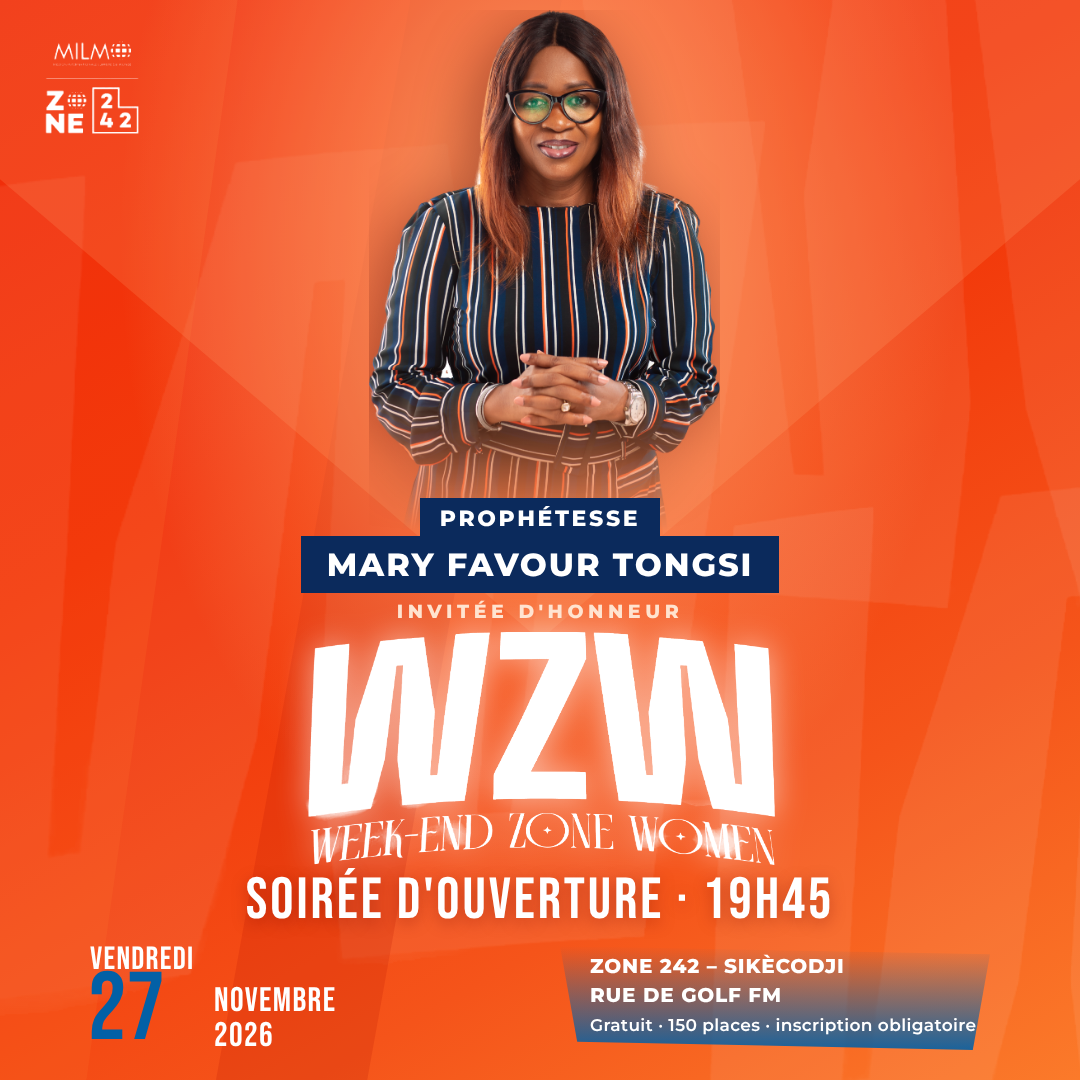
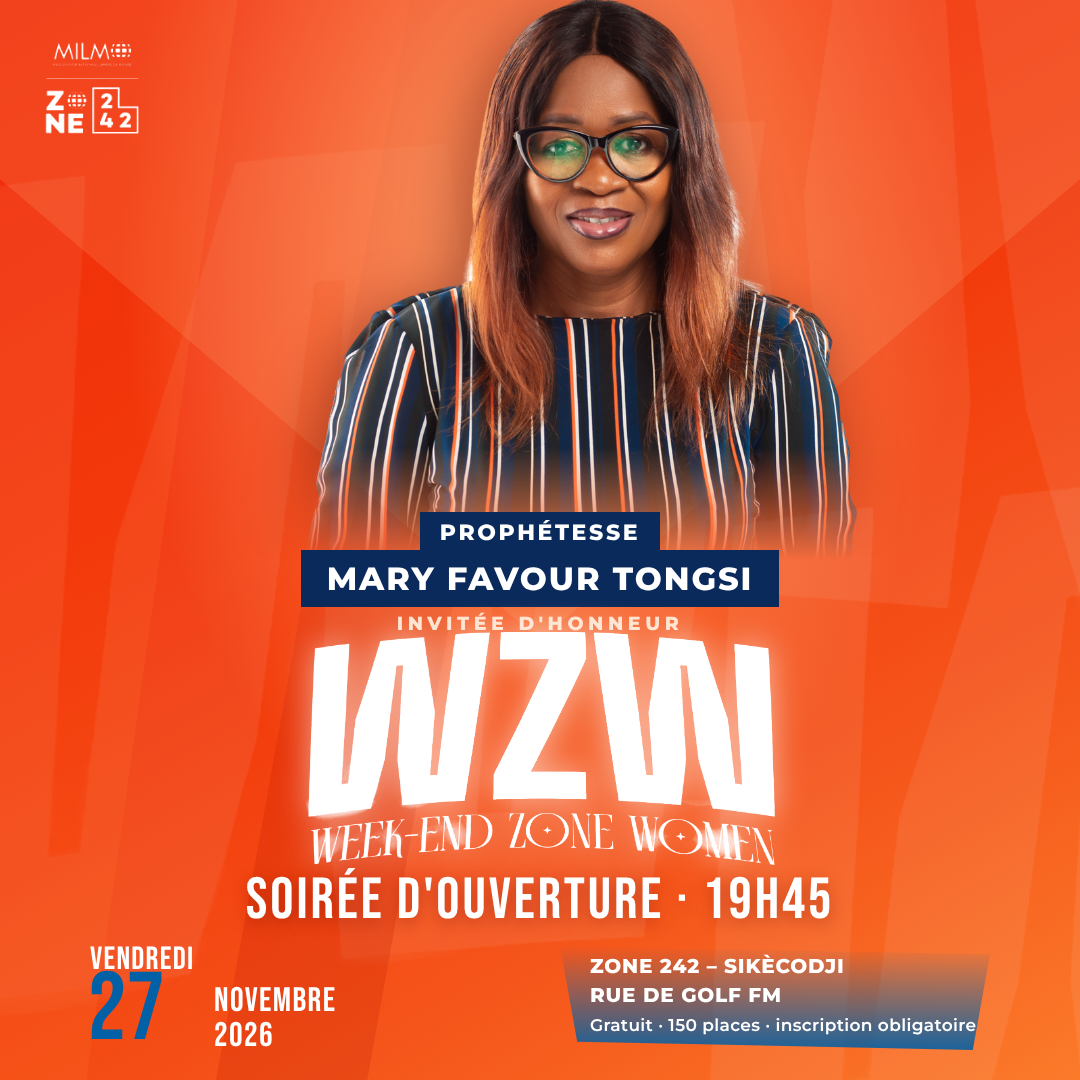
Affiche du vendredi : photo ancrée en haut, cadrée à la poitrine
Claude-Session: https://claude.ai/code/session_01MwjzxB6vNBUzfK55D3M67f

Changed region(s): [[0.275, 0.0, 0.7944, 0.5806]]

diff --git a/zone242-com-session/livrables/scripts-sources/affiche_vendredi.py b/zone242-com-session/livrables/scripts-sources/affiche_vendredi.py
@@ -34,10 +34,10 @@ def page(W, H, story):
 <div class="a" style="left:0;top:0;width:1080px;height:1080px;background:radial-gradient(ellipse at 50% 22%,rgba(255,170,110,.85) 0%,rgba(255,170,110,0) 55%)"></div>
 <div class="a" style="left:0;top:0;width:1080px;height:640px;background:#ffb27a;opacity:.18;clip-path:polygon(0 0,100% 0,100% 28%,50% 100%,0 28%)"></div>
 <img class="a" src="logos.png" style="left:40px;top:36px;width:104px">
-<img class="a mary" src="mary.png" style="left:369px;top:10px;height:520px;-webkit-mask-image:linear-gradient(180deg,#000 72%,transparent 100%);mask-image:linear-gradient(180deg,#000 72%,transparent 100%)">
-<div class="a" style="left:0;width:1080px;top:498px;text-align:center"><span style="display:inline-block;background:#0b2a5c;color:#fff;font-family:M;font-weight:800;font-size:22px;letter-spacing:.12em;padding:7px 20px">PROPHÉTESSE</span></div>
-<div class="a" style="left:0;width:1080px;top:536px;text-align:center"><span style="display:inline-block;background:#0b2a5c;color:#fff;font-family:M;font-weight:800;font-size:32px;letter-spacing:.06em;padding:9px 26px">MARY FAVOUR TONGSI</span></div>
-<div class="a foot" style="left:0;width:1080px;top:600px;text-align:center;font-size:19px;letter-spacing:.24em">INVITÉE D'HONNEUR</div>
+<div class="a" style="left:0;top:0;width:1080px;height:560px;overflow:hidden;-webkit-mask-image:linear-gradient(180deg,#000 80%,transparent 100%);mask-image:linear-gradient(180deg,#000 80%,transparent 100%)"><img class="mary" src="mary.png" style="position:absolute;left:290px;top:-4px;height:850px"></div>
+<div class="a" style="left:0;width:1080px;top:512px;text-align:center"><span style="display:inline-block;background:#0b2a5c;color:#fff;font-family:M;font-weight:800;font-size:22px;letter-spacing:.12em;padding:7px 20px">PROPHÉTESSE</span></div>
+<div class="a" style="left:0;width:1080px;top:550px;text-align:center"><span style="display:inline-block;background:#0b2a5c;color:#fff;font-family:M;font-weight:800;font-size:32px;letter-spacing:.06em;padding:9px 26px">MARY FAVOUR TONGSI</span></div>
+<div class="a foot" style="left:0;width:1080px;top:612px;text-align:center;font-size:19px;letter-spacing:.24em">INVITÉE D'HONNEUR</div>
 <img class="a lock" src="lockup.png" style="left:305px;top:632px;width:470px">
 <div class="a" style="left:0;width:1080px;top:872px;text-align:center;font-size:58px;line-height:1;letter-spacing:.05em;text-shadow:0 4px 16px rgba(110,10,0,.35)">SOIRÉE D'OUVERTURE · 19H45</div>
 <div class="a" style="left:90px;top:944px;font-size:32px;line-height:1;letter-spacing:.04em">VENDREDI</div>
